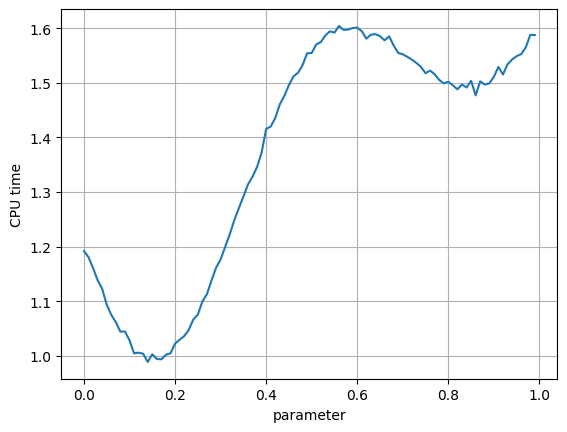
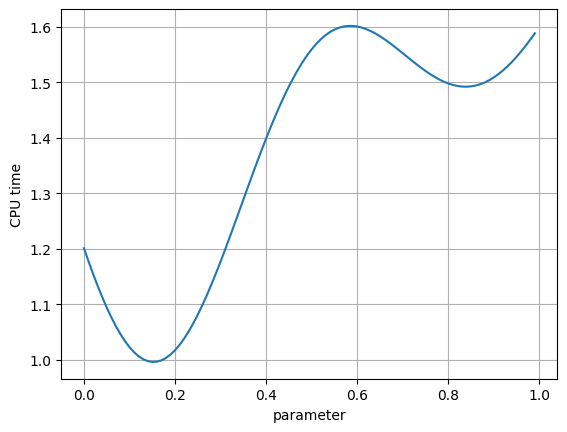
chore: update examples

diff --git a/docs/06_bayesian_optimization.v3.md b/docs/06_bayesian_optimization.v3.md
@@ -1,0 +1,125 @@
+```python
+import matplotlib.pyplot as plt
+import numpy as np
+import optuna
+
+from bayesian_optimization import jit_plus_server, plot_example_gpr
+
+plt.rc("figure", figsize=(16, 10))
+```
+
+
+```python
+np.random.seed(20250127)
+
+
+def jit_plus_server(parameters, is_noisy=False):
+    x = np.array(parameters)
+    d = len(x)
+    x1 = x - 0.15 * np.ones(shape=(d,))
+    x2 = x - 0.85 * np.ones(shape=(d,))
+    cpu_time = 2 - np.exp(-10 * x1**2) - 0.5 * np.exp(-10 * x2**2)
+    noise = 0.005 * np.random.normal()
+    return cpu_time.mean() + is_noisy * noise
+
+
+x = np.linspace(0, 1, 100)
+y = [jit_plus_server([i]) for i in x]
+
+plt.plot(x, y)
+plt.xlabel("Parameter")
+plt.ylabel("CPU Time");
+```
+
+
+    
+![png](06_bayesian_optimization.v3_files/06_bayesian_optimization.v3_1_0.png)
+    
+
+
+
+```python
+# Optimal value (min).
+i = np.argmin(y)
+print("x={:.4f} | y={:.4f}".format(x[i], y[i]))
+```
+
+    x=0.1515 | y=0.9962
+
+
+Given an expensive black-box function, we can find the optimum value (minimizing) by trying all the different parameters.
+By using bayesian optimization, we can reduce the number of trials before reaching the optimum value.
+
+
+```python
+np.random.seed(20250127)
+
+
+def objective(trial):
+    x = trial.suggest_float("x", 0, 1)
+    return jit_plus_server([x])
+
+
+study = optuna.create_study()
+study.optimize(objective, n_trials=16)
+```
+
+    [I 2025-01-27 17:33:07,978] A new study created in memory with name: no-name-795d57fa-2ffb-46d9-adef-66b23bc601b5
+    [I 2025-01-27 17:33:07,980] Trial 0 finished with value: 1.5808752609783658 and parameters: {'x': 0.5247385565776095}. Best is trial 0 with value: 1.5808752609783658.
+    [I 2025-01-27 17:33:07,982] Trial 1 finished with value: 1.123186611629456 and parameters: {'x': 0.27336353198710606}. Best is trial 1 with value: 1.123186611629456.
+    [I 2025-01-27 17:33:07,984] Trial 2 finished with value: 1.403767904339469 and parameters: {'x': 0.4024233299036146}. Best is trial 1 with value: 1.123186611629456.
+    [I 2025-01-27 17:33:07,987] Trial 3 finished with value: 1.5537623547141344 and parameters: {'x': 0.9581787267693945}. Best is trial 1 with value: 1.123186611629456.
+    [I 2025-01-27 17:33:07,989] Trial 4 finished with value: 1.5016808617198545 and parameters: {'x': 0.7882766278291756}. Best is trial 1 with value: 1.123186611629456.
+    [I 2025-01-27 17:33:07,990] Trial 5 finished with value: 1.5954623267200787 and parameters: {'x': 0.6204016453259076}. Best is trial 1 with value: 1.123186611629456.
+    [I 2025-01-27 17:33:07,992] Trial 6 finished with value: 1.125720578968909 and parameters: {'x': 0.2746846380659873}. Best is trial 1 with value: 1.123186611629456.
+    [I 2025-01-27 17:33:07,993] Trial 7 finished with value: 1.1896509269298936 and parameters: {'x': 0.004818111447827844}. Best is trial 1 with value: 1.123186611629456.
+    [I 2025-01-27 17:33:07,995] Trial 8 finished with value: 0.9963124480672132 and parameters: {'x': 0.15600962599011425}. Best is trial 8 with value: 0.9963124480672132.
+    [I 2025-01-27 17:33:07,996] Trial 9 finished with value: 1.014783790462038 and parameters: {'x': 0.10878954382078876}. Best is trial 8 with value: 0.9963124480672132.
+    [I 2025-01-27 17:33:07,999] Trial 10 finished with value: 1.0105470463827104 and parameters: {'x': 0.1915204692330313}. Best is trial 8 with value: 0.9963124480672132.
+    [I 2025-01-27 17:33:08,004] Trial 11 finished with value: 1.0285414380235853 and parameters: {'x': 0.21141250346667828}. Best is trial 8 with value: 0.9963124480672132.
+    [I 2025-01-27 17:33:08,008] Trial 12 finished with value: 1.1033623972172946 and parameters: {'x': 0.045137769629888524}. Best is trial 8 with value: 0.9963124480672132.
+    [I 2025-01-27 17:33:08,011] Trial 13 finished with value: 1.2289172103904304 and parameters: {'x': 0.3236098877509567}. Best is trial 8 with value: 0.9963124480672132.
+    [I 2025-01-27 17:33:08,014] Trial 14 finished with value: 0.9962102128858974 and parameters: {'x': 0.1520723350245612}. Best is trial 14 with value: 0.9962102128858974.
+    [I 2025-01-27 17:33:08,019] Trial 15 finished with value: 1.4585647722981034 and parameters: {'x': 0.43044678720506147}. Best is trial 14 with value: 0.9962102128858974.
+
+
+
+```python
+study.best_params
+```
+
+
+
+
+    {'x': 0.1520723350245612}
+
+
+
+
+```python
+jit_plus_server([study.best_params["x"]])
+```
+
+
+
+
+    0.9962102128858974
+
+
+
+
+```python
+for t in study.trials:
+    x_i = t.params["x"]
+    y_i = t.values[0]
+    text_i = t.number + 1
+    plt.text(x_i, y_i + 0.01, text_i, alpha=0.9)
+    plt.scatter(x_i, y_i, alpha=0.5)
+plt.plot(x, y, linestyle="dotted");
+```
+
+
+    
+![png](06_bayesian_optimization.v3_files/06_bayesian_optimization.v3_7_0.png)
+    
+

diff --git a/docs/06_bayesian_optimization.md b/docs/06_bayesian_optimization.md
@@ -14,7 +14,7 @@ jit_plus_server([0.5])
 
 
 
-    1.5607447789648075
+    1.5593634495147009
 
 
 
